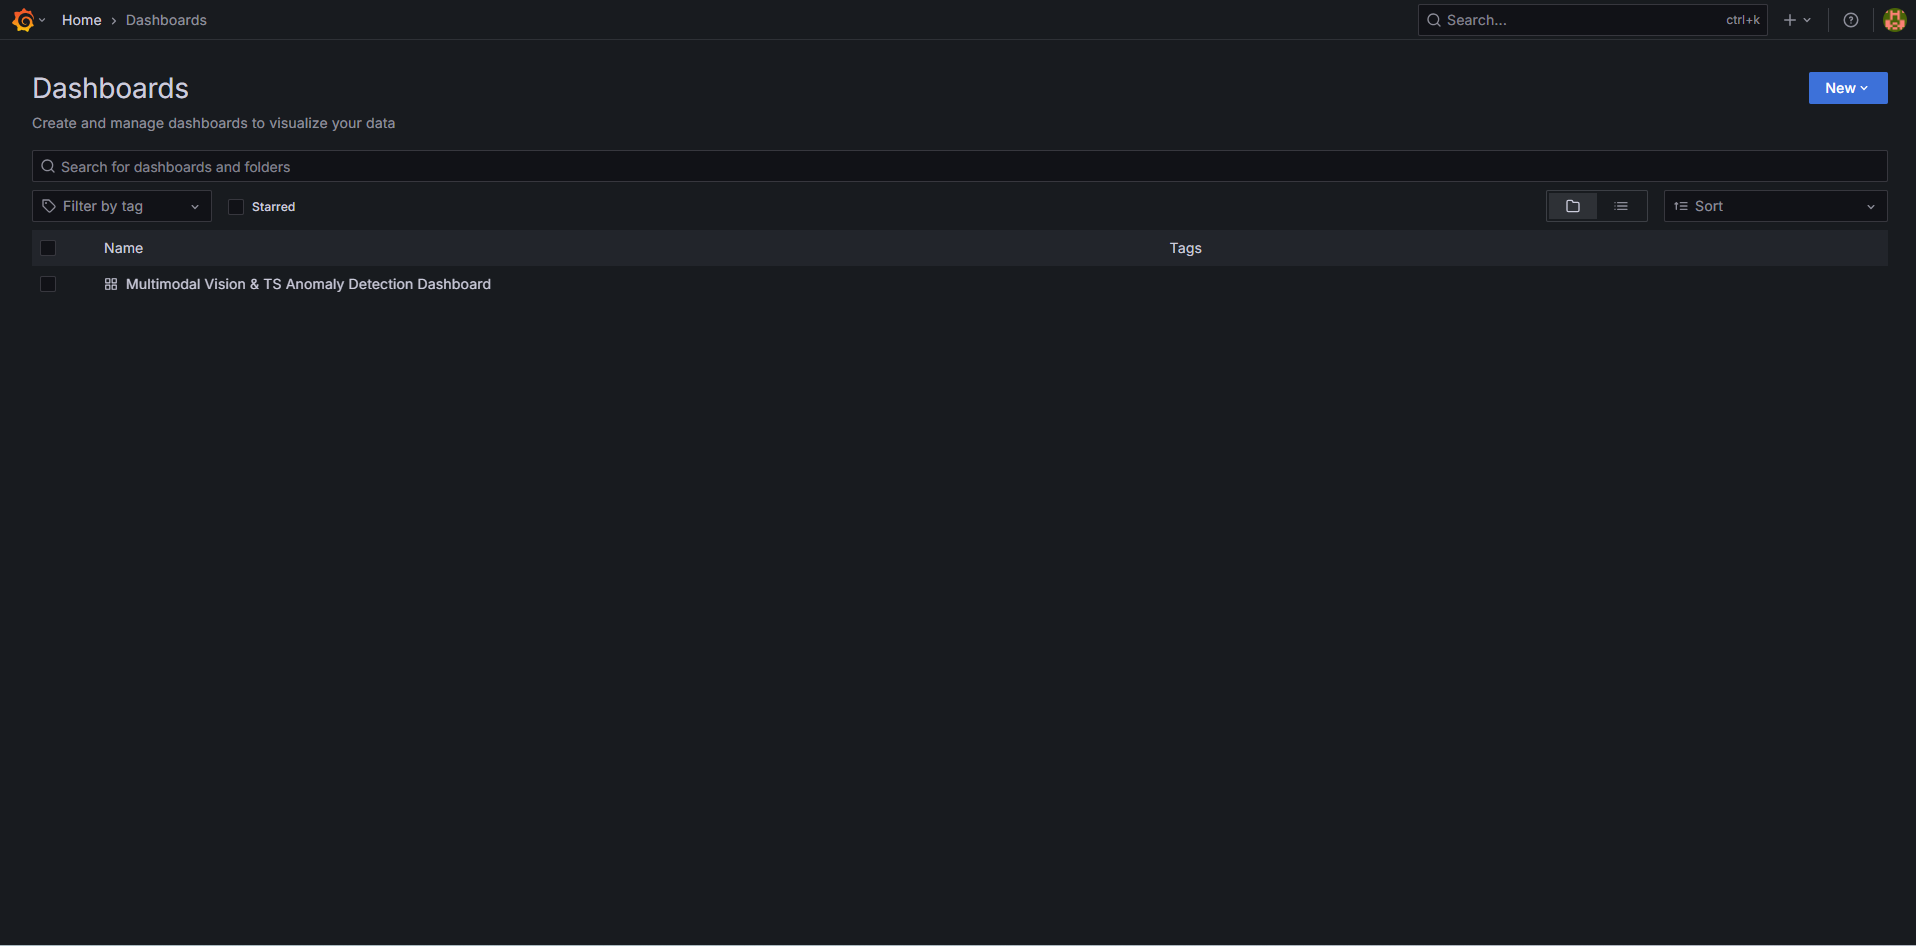
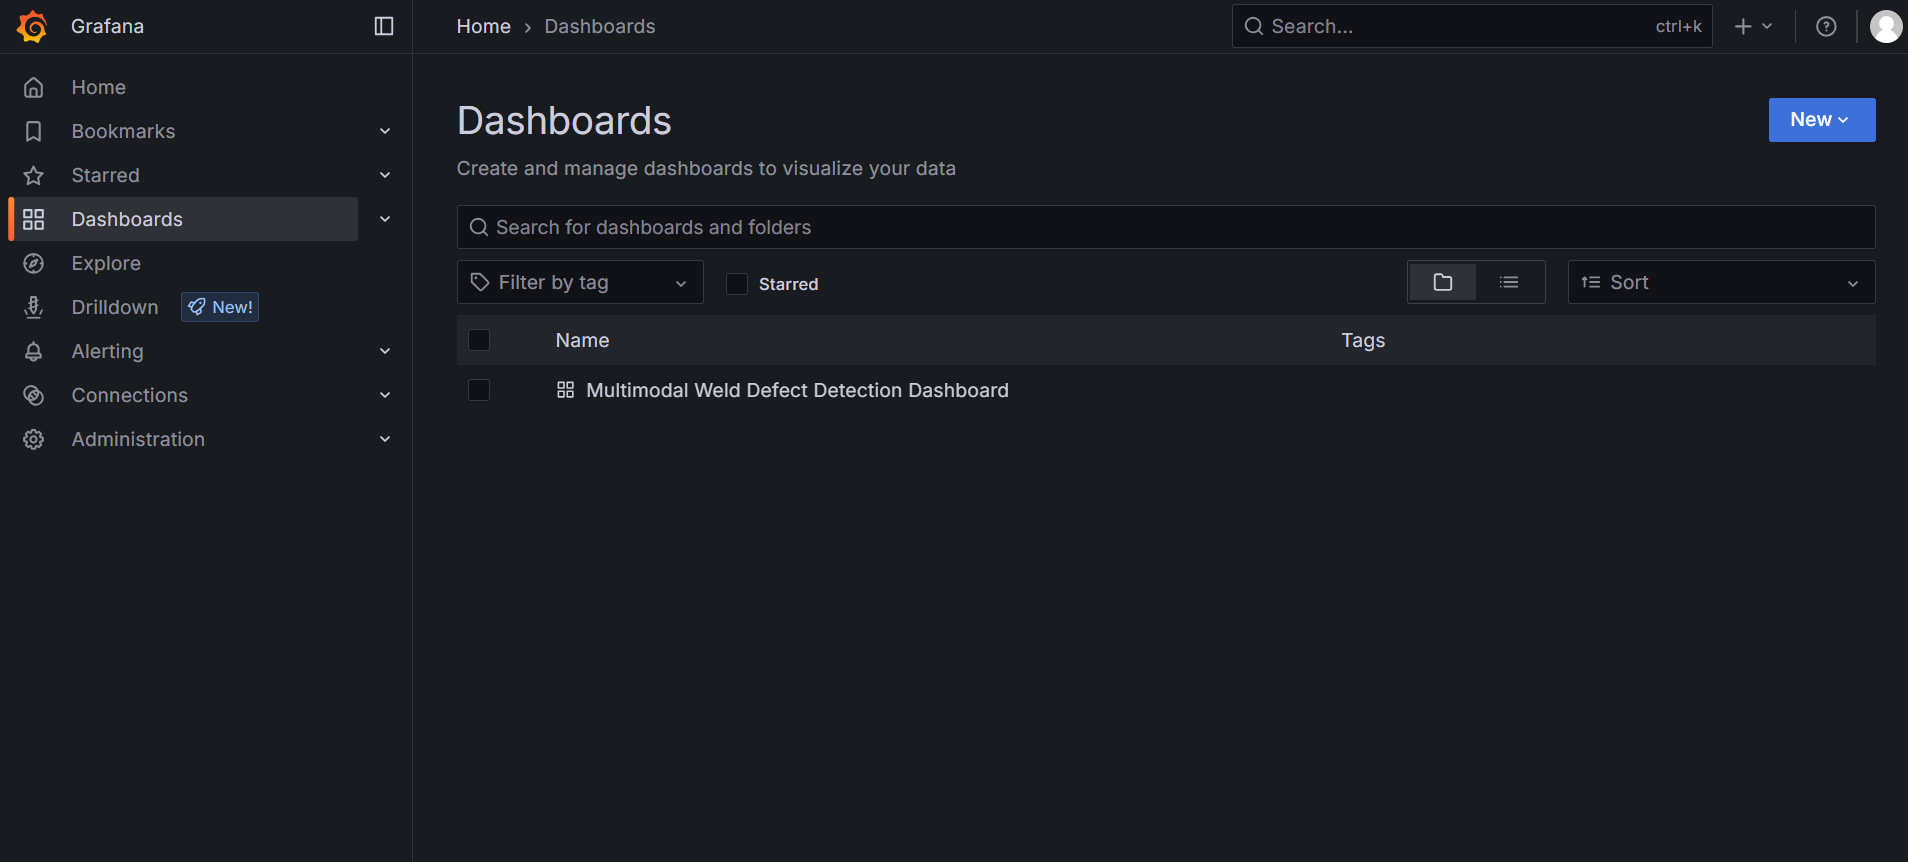
industrial-edge-insights-multimodal: Fixed the docs for dashboard name
Changes:
  docs - Fixed the grafana dashboard name and updated the image

diff --git a/manufacturing-ai-suite/industrial-edge-insights-multimodal/docs/user-guide/get-started.md b/manufacturing-ai-suite/industrial-edge-insights-multimodal/docs/user-guide/get-started.md
@@ -202,15 +202,15 @@ Use the following command to verify that all containers are active and error-fre
       > **Note**: Use link `http://<host_ip>:30001` to launch Grafana from browser (preferably, chrome browser) for the helm deployment
     
     - Login to the Grafana with values set for `VISUALIZER_GRAFANA_USER` and `VISUALIZER_GRAFANA_PASSWORD`
-      in `.env` file and select **Multimodal Vision & TS Anomaly Detection Dashboard**.
+      in `.env` file and select **Multimodal Weld Defect Detection Dashboard**.
 
       ![Grafana login](./_images/login_wt.png)
 
     - After login, click on Dashboard 
       ![Menu view](./_images/dashboard.png)
 
-    - Select the `Multimodal Vision & TS Anomaly Detection Dashboard`.
-      ![Multimodal Vision & TS Anomaly Detection Dashboard](./_images/grafana_dashboard_selection.png)
+    - Select the `Multimodal Weld Defect Detection Dashboard`.
+      ![Multimodal Weld Defect Detection Dashboard](./_images/grafana_dashboard_selection.png)
 
     - One will see the below output.
   
